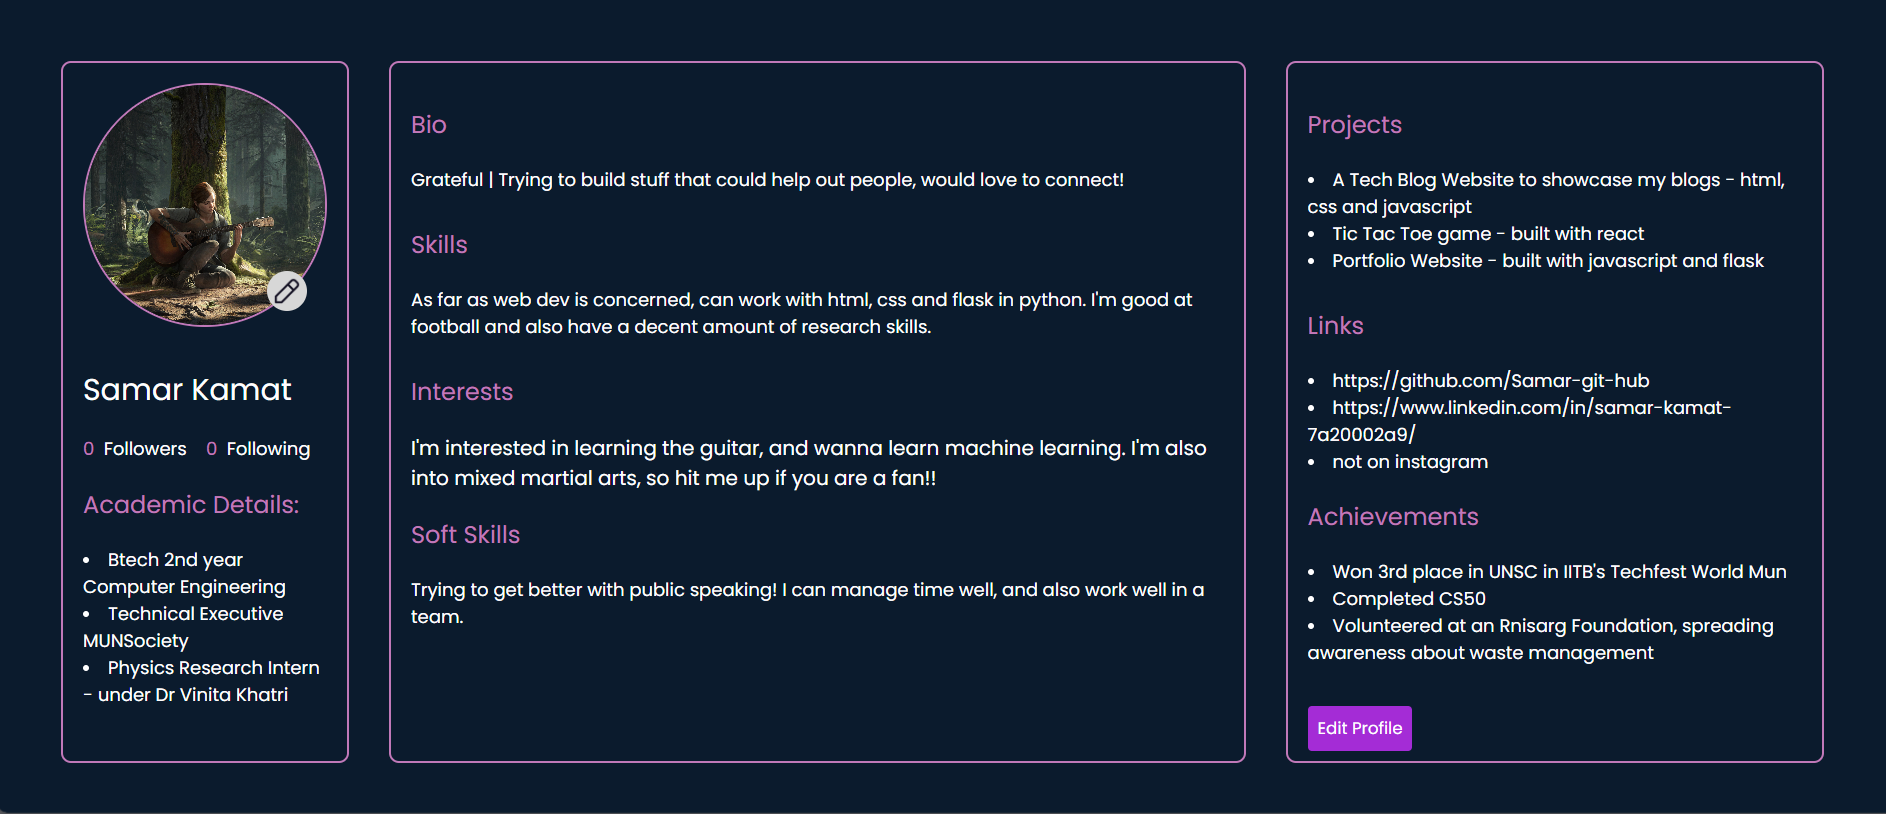
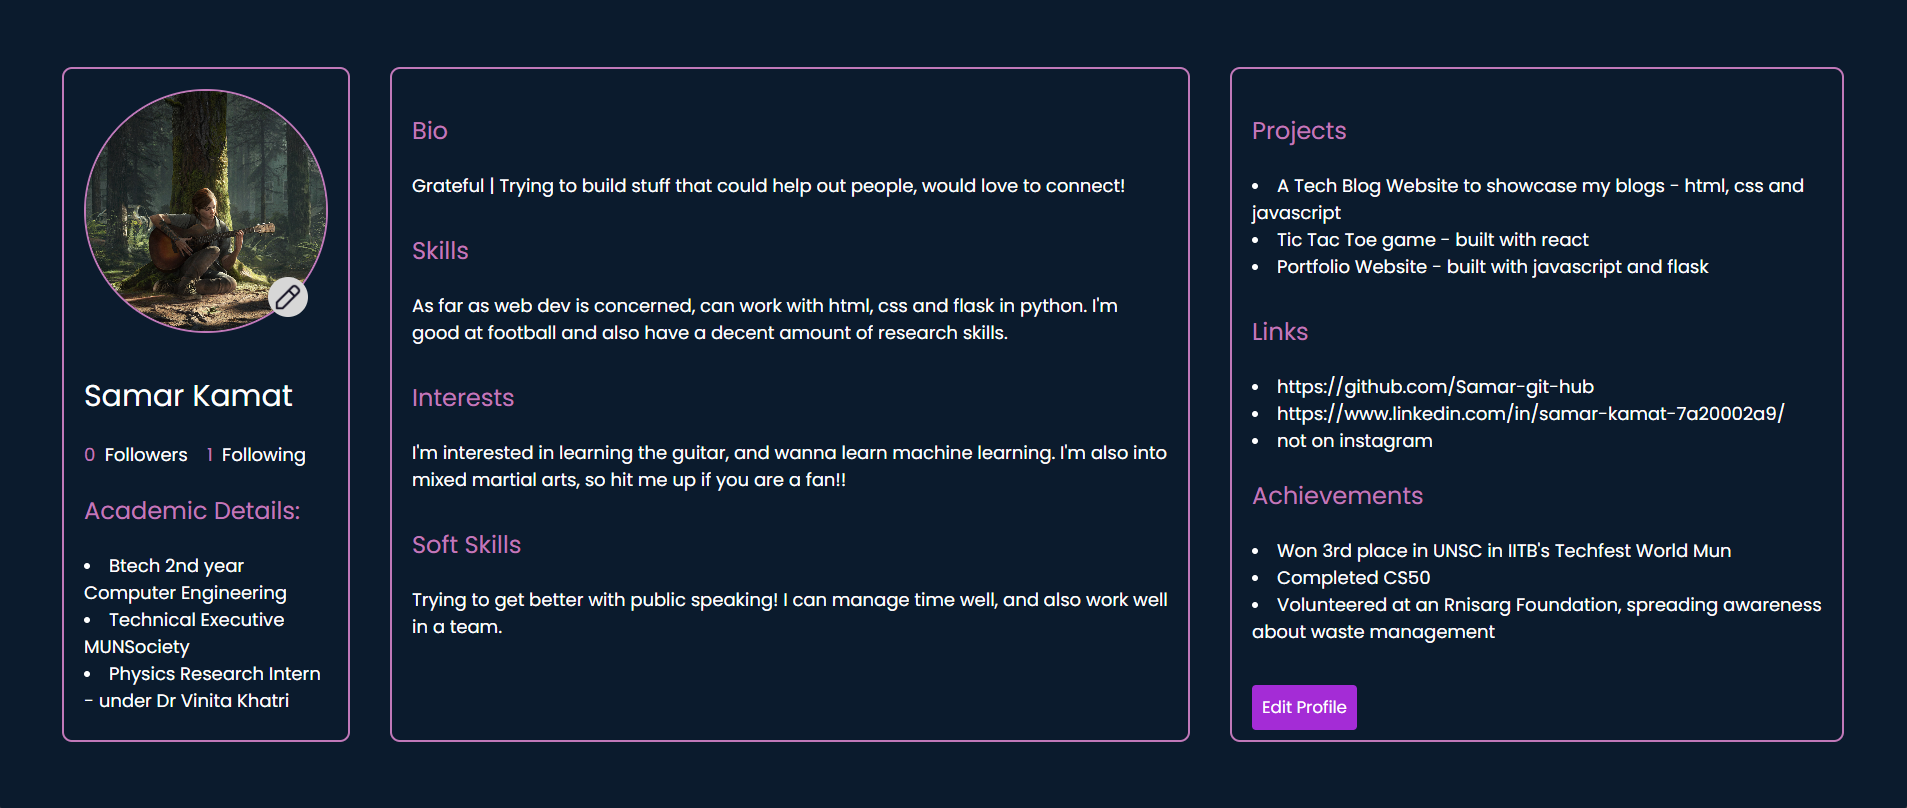
milestone 21
made an index page, and then made the light mode way better than it was (still room for improvement)

diff --git a/static/script.js b/static/script.js
@@ -1,41 +1,74 @@
 // when all dom is loaded, this will execute, this is basically for toggling between dark and light mode
 document.addEventListener("DOMContentLoaded", function () {
-    const buttonelement = document.getElementById("toggle-button")
-    const logoimageelement = document.getElementById("logo")
+    const buttonelement = document.getElementById("toggle-button");
+    const logoimageelement = document.getElementById("logo");
+    const profileindex = document.getElementById("profile-page-index");
+    const searchindex = document.getElementById("search-page-index");
+    const events1index = document.getElementById("events-1-page-index");
+    const events2index = document.getElementById("events-2-page-index");
+    const event1 = document.getElementById("event-1");
+    const event2 = document.getElementById("event-2");
+    const event3 = document.getElementById("event-3");
     const defaultTheme = localStorage.getItem('theme') || 'dark'; // browsers have this, if not present, set default as dark
 
     document.documentElement.setAttribute('data-theme', defaultTheme);
-    // since I havent defined any css related to data-theme for dark, it will use the dault ^
+    // since I havent defined any css related to data-theme for dark, it will use the default ^
     // document.documentElement is a way to access the <html> tag (root element)
 
     if (defaultTheme === 'light') {
         buttonelement.src = '/static/suntheme.png';
-        logoimageelement.src ='/static/logo-dark.svg'
+        logoimageelement && (logoimageelement.src = '/static/logo-light.svg');
+        profileindex && (profileindex.src = '/static/profilepage-index-light.png');
+        searchindex && (searchindex.src = '/static/searchpage-index-light.png');
+        events1index && (events1index.src = '/static/eventspage-index-1-light.png');
+        events2index && (events2index.src = '/static/eventspage-index-2-light.png');
+        event1 && (event1.src = '/static/mumbaimunlogo-light.png');
+        event2 && (event2.src = '/static/socialconclavelogo-light.png');
+        event3 && (event3.src = '/static/taqneeqlogo-light.png');
     } else {
         buttonelement.src = '/static/moontheme.png';
-        logoimageelement.src ='/static/logo-light.svg'
+        logoimageelement && (logoimageelement.src = '/static/logo-light.svg');
+        profileindex && (profileindex.src = '/static/profilepage-index.png');
+        searchindex && (searchindex.src = '/static/searchpage-index.png');
+        events1index && (events1index.src = '/static/eventspage-index-1.png');
+        events2index && (events2index.src = '/static/eventspage-index-2.png');
+        event1 && (event1.src = '/static/mumbaimunlogo.jpg');
+        event2 && (event2.src = '/static/socialconclavelogo.png');
+        event3 && (event3.src = '/static/taqneeqlogo.jpg');
     }
     // upper part is basically like a get request, this is what the user sees whenever he comes to the page, even if its a reload
     // below part is the actual logic for changing the colors
     buttonelement.addEventListener('click', function () {
         const currentTheme = document.documentElement.getAttribute('data-theme'); // for this logic, we first get the current theme 
         // which is in the html element (document.documentElement)
-        if (currentTheme === 'dark')
-        {
+        if (currentTheme === 'dark') {
             document.documentElement.setAttribute('data-theme', 'light');
             localStorage.setItem('theme', 'light');
             buttonelement.src = '/static/suntheme.png';
-            logoimageelement.src ='/static/logo-dark.svg';        
-        }
-        else
-        {
+            logoimageelement && (logoimageelement.src = '/static/logo-light.svg');
+            profileindex && (profileindex.src = '/static/profilepage-index-light.png');
+            searchindex && (searchindex.src = '/static/searchpage-index-light.png');
+            events1index && (events1index.src = '/static/eventspage-index-1-light.png');
+            events2index && (events2index.src = '/static/eventspage-index-2-light.png');
+            event1 && (event1.src = '/static/mumbaimunlogo-light.png');
+            event2 && (event2.src = '/static/socialconclavelogo-light.png');
+            event3 && (event3.src = '/static/taqneeqlogo-light.png');
+        } else {
             document.documentElement.setAttribute('data-theme', 'dark');
             localStorage.setItem('theme', 'dark');
             buttonelement.src = '/static/moontheme.png';
-            logoimageelement.src ='/static/logo-light.svg';
+            logoimageelement && (logoimageelement.src = '/static/logo-light.svg');
+            profileindex && (profileindex.src = '/static/profilepage-index.png');
+            searchindex && (searchindex.src = '/static/searchpage-index.png');
+            events1index && (events1index.src = '/static/eventspage-index-1.png');
+            events2index && (events2index.src = '/static/eventspage-index-2.png');
+            event1 && (event1.src = '/static/mumbaimunlogo.jpg');
+            event2 && (event2.src = '/static/socialconclavelogo.png');
+            event3 && (event3.src = '/static/taqneeqlogo.jpg');
         }
-    })
-})
+    });
+});
+
 /*
 The element pen-icon (the image) acts like a button as when clicked, with the help of javascript.
 When clicked, the button then calls for the input element (with the file type and file name),

diff --git a/templates/index.html b/templates/index.html
@@ -5,7 +5,7 @@
 {% endblock %}
 
 {% block body %}
-    <div class="main-events">
+    <div class="main-index">
         <div class="top-part-index">
             <div class="search-header">
                 Welcome to <span class="index-mpstme">MPSTME</span>'s own platform to connect students!
@@ -16,14 +16,53 @@
         </div>
         <div class="middle-part-index">
             <div class="double-container-index">
-                <div class="description-index">
-                    Here you can request approval to create events for yourself or for an organization.
-                    After approval, you will receive a mail that your event has been approved, and it will
-                    be displayed on the events page of MPSTME Connect.
-                    Be careful though, you can only request to create an event once in every 5 minutes!
+                <div>
+                    <div class="title-index">
+                        Dynamically change your
+                        {% if session["user_id"] %}
+                            <span class="index-mpstme"><a href="/profile">profile</a></span>
+                        {% else %}
+                            <span class="index-mpstme">profile</span>
+                        {% endif %}
+                        page!
+                    </div>
                 </div>
                 <div class="picture-index-container">
-                    <img class="picture-index" src="/static/profilepage-index.png">
+                    <img class="picture-index" id="profile-page-index" src="/static/profilepage-index.png">
+                </div>
+            </div>
+            <div class="double-container-index">
+                <div>
+                    <div class="title-index-2">
+                        Find people you want to talk with, with the help of this
+                        {% if session["user_id"] %}
+                            <span class="index-mpstme"><a href="/search">search</a></span>
+                        {% else %}
+                            <span class="index-mpstme">search</span>
+                        {% endif %}
+                        page!
+                    </div>
+                </div>
+                <div class="picture-index-container search-index-container">
+                    <img class="picture-index" id="search-page-index" src="/static/searchpage-index.png">
+                </div>
+            </div>
+            <div class="double-container-index">
+                <div>
+                    <div class="title-index" >
+                        Create you very own
+                        {% if session["user_id"] %}
+                            <span class="index-mpstme"><a href="/events">events</a></span>!
+                        {% else %}
+                            <span class="index-mpstme">events</span>!
+                        {% endif %}
+                    </div>
+                </div>
+                <div class="picture-index-container search-index-container">
+                    <img class="picture-index" id="events-1-page-index" src="/static/eventspage-index-1.png">
+                </div>
+                <div class="picture-index-container">
+                    <img class="picture-index" id="events-2-page-index" src="/static/eventspage-index-2.png">
                 </div>
             </div>
         </div>

diff --git a/static/styles.css b/static/styles.css
@@ -10,13 +10,13 @@
     --text-color-2: rgb(182, 182, 182);
 }
 [data-theme="light"] { /* can be toggled with light theme, thats why variables in the CSS */
-    --background-color: rgb(218, 241, 249);
+    --background-color: rgb(255, 255, 255);
     --text-color: #2F242C;
     --text-color-2: rgb(85, 85, 85);
     --primary-color: #A42CD6;
     --secondary-color: #f1b1b0;
-    --accent-color: #502274;
-    --header-background: lightblue;
+    --accent-color: #C179B9;
+    --header-background: rgb(240, 240, 240);
     --primary-rgba: rgba(164, 44, 214, 1); /* hazy buttons, same color as primary */
     --primary-rgba-opaque: rgba(164, 44, 214, 0.8);
 }
@@ -24,7 +24,7 @@
     font-family: Poppins, sans-serif;
 }
 a {
-    color: inherit;
+    color: var(--text-color);
     text-decoration: none;
 }
 a:hover{
@@ -514,7 +514,6 @@ header {
 .middle-part-search {
     display: flex;
     flex-direction: column;
-    margin-bottom: 1rem;
 }
 .search-header {
     font-size: 2rem;
@@ -560,7 +559,7 @@ header {
     display: flex;
     align-items: center;
     margin-top: 2rem;
-    margin-bottom: 5rem;
+    margin-bottom: 3.5rem;
     position: relative;
 }
 .profile-preview {
@@ -568,6 +567,7 @@ header {
     display: flex;
     border: 0.1rem solid var(--accent-color);
     border-radius: 6rem;
+    margin-bottom: 1rem;
 }
 .left-profile-preview {
     width: 12rem;
@@ -812,12 +812,12 @@ header {
     box-sizing: border-box;
 }
 .picture-index {
-    width: 50rem;
+    width: 100%;
 }
 .double-container-index {
-    margin-top: 5rem;
+    margin-top: 3rem;
     display: flex;
-    flex-direction: row;
+    flex-direction: column;
 }
 .top-two-profile {
     display: flex;
@@ -828,6 +828,29 @@ header {
 }
 .left-container {
     display: flex;
+}
+.description-index {
+    margin-top: 1.2rem;
+}
+.title-index {
+    font-size: 1.4rem;
+    font-weight: 500; 
+    margin-top: 1.5rem;
+}
+.title-index-2 {
+    font-size: 1.4rem;
+    font-weight: 500; 
+}
+.main-index {
+    margin-top: 8rem;
+    padding-left: 12%;
+    padding-right: 12%;
+}
+.search-index-container {
+    margin-top: 2rem;
+}
+.profile-button {
+    color: white;
 }
 @media (min-width: 1500px) {
     .profile-right {

diff --git a/templates/events.html b/templates/events.html
@@ -24,7 +24,7 @@
                         Organizer: MUNSociety MPSTME
                     </div>
                     <div class="event-poster">
-                        <img class="event-poster-image" src="/static/mumbaimunlogo.jpg">
+                        <img class="event-poster-image" id="event-1" src="/static/mumbaimunlogo.jpg">
                     </div>
                     <div class="event-days-left">
                         8th November, 2024
@@ -46,7 +46,7 @@
                         Organizer: Social Impact MPSTME
                     </div>
                     <div class="event-poster">
-                        <img class="event-poster-image" src="/static/socialconclavelogo.png">
+                        <img class="event-poster-image" id="event-2" src="/static/socialconclavelogo.png">
                     </div>
                     <div class="event-days-left">
                         20th December, 2024
@@ -68,7 +68,7 @@
                         Organizer: Tech and Research Cell
                     </div>
                     <div class="event-poster">
-                        <img class="event-poster-image" src="/static/taqneeqlogo.jpg">
+                        <img class="event-poster-image" id="event-3" src="/static/taqneeqlogo.jpg">
                     </div>
                     <div class="event-days-left">
                         13th January, 2025
@@ -91,7 +91,7 @@
                 </div>
                 <div class="events-subheader">
                     Here you can request approval to create events for yourself or for an organization.
-                    After approval, you will receive a mail that your event has been approved, and it will
+                    You will receive a mail after your event has been approved, and it will
                     be displayed on the events page of MPSTME Connect.
                     Be careful though, you can only request to create an event once in every 5 minutes!
                 </div>

diff --git a/templates/profile.html b/templates/profile.html
@@ -82,7 +82,7 @@
                 <li>{{ achievements['achievement_3'] if achievements['achievement_3'] else '' }}</li>
             </div>
             <button type="submit" id="profile-edit-button">
-                <a href="/details">
+                <a href="/details" class="profile-button">
                     Edit Profile
                 </a>
             </button>
